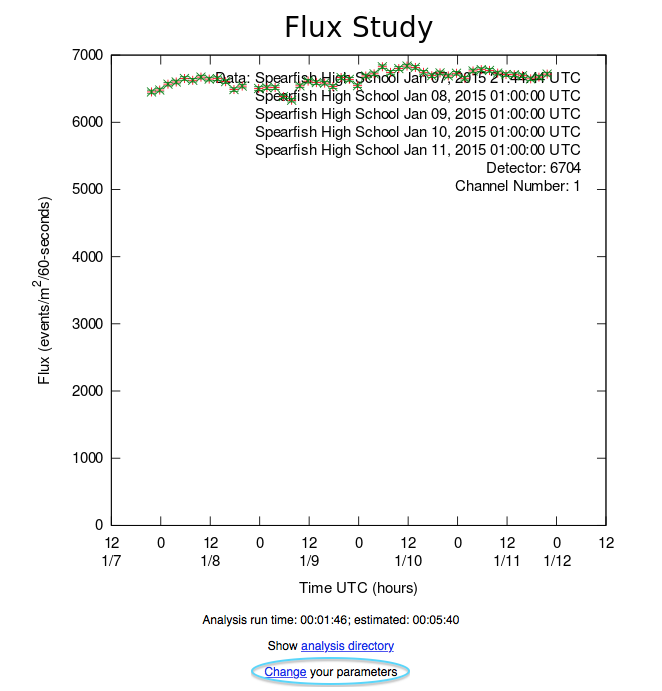
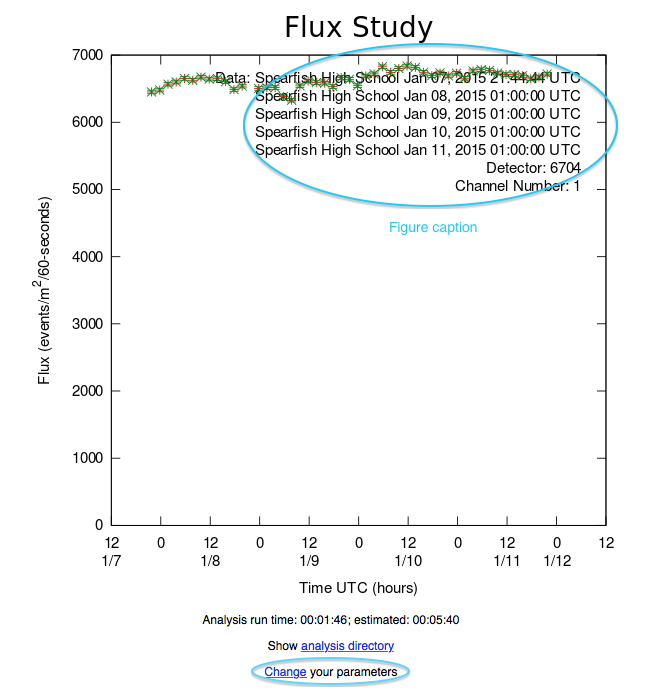
Step-by-Step lifetime & flux

diff --git a/cosmic/src/jsp/analysis-flux/tryit.html b/cosmic/src/jsp/analysis-flux/tryit.html
@@ -98,7 +98,7 @@ We will run the analysis on our local computer. See Execution Mode below.
 <tr><td colspan="2"><IMG src="../graphics/tryPerf/flux-analysis-list.png" border="1"></td></tr>
 
 <tr><td colspan="2" height="16"><A Name="plot"> </A></td></tr>
-<tr><td valign="top">Step 6:</td><td>Here's the graph of the flux (a histogram showing the number of events/m<sup>2</sup>/60 seconds from January 7, 2015 through January 11, 2015. The legend for the data files covers some of the points. So, you should change the maximum y value in the plot or change the Figure caption (both under Plot Controls).  
+<tr><td valign="top">Step 6:</td><td>Here's the graph of the flux - a histogram showing the number of events/m<sup>2</sup>/60 seconds from January 7, 2015 through January 11, 2015. The Figure caption for the data files covers some of the points. So, you should change the maximum y value in the plot or change the Figure caption (both found under Plot Controls).  
 <br>Click <b>Change your parameters</b> to alter the plot.</td></tr>
 <tr><td colspan="2"><IMG border="1" src="../graphics/tryPerf/plot_flux.png"></td></tr>
 
